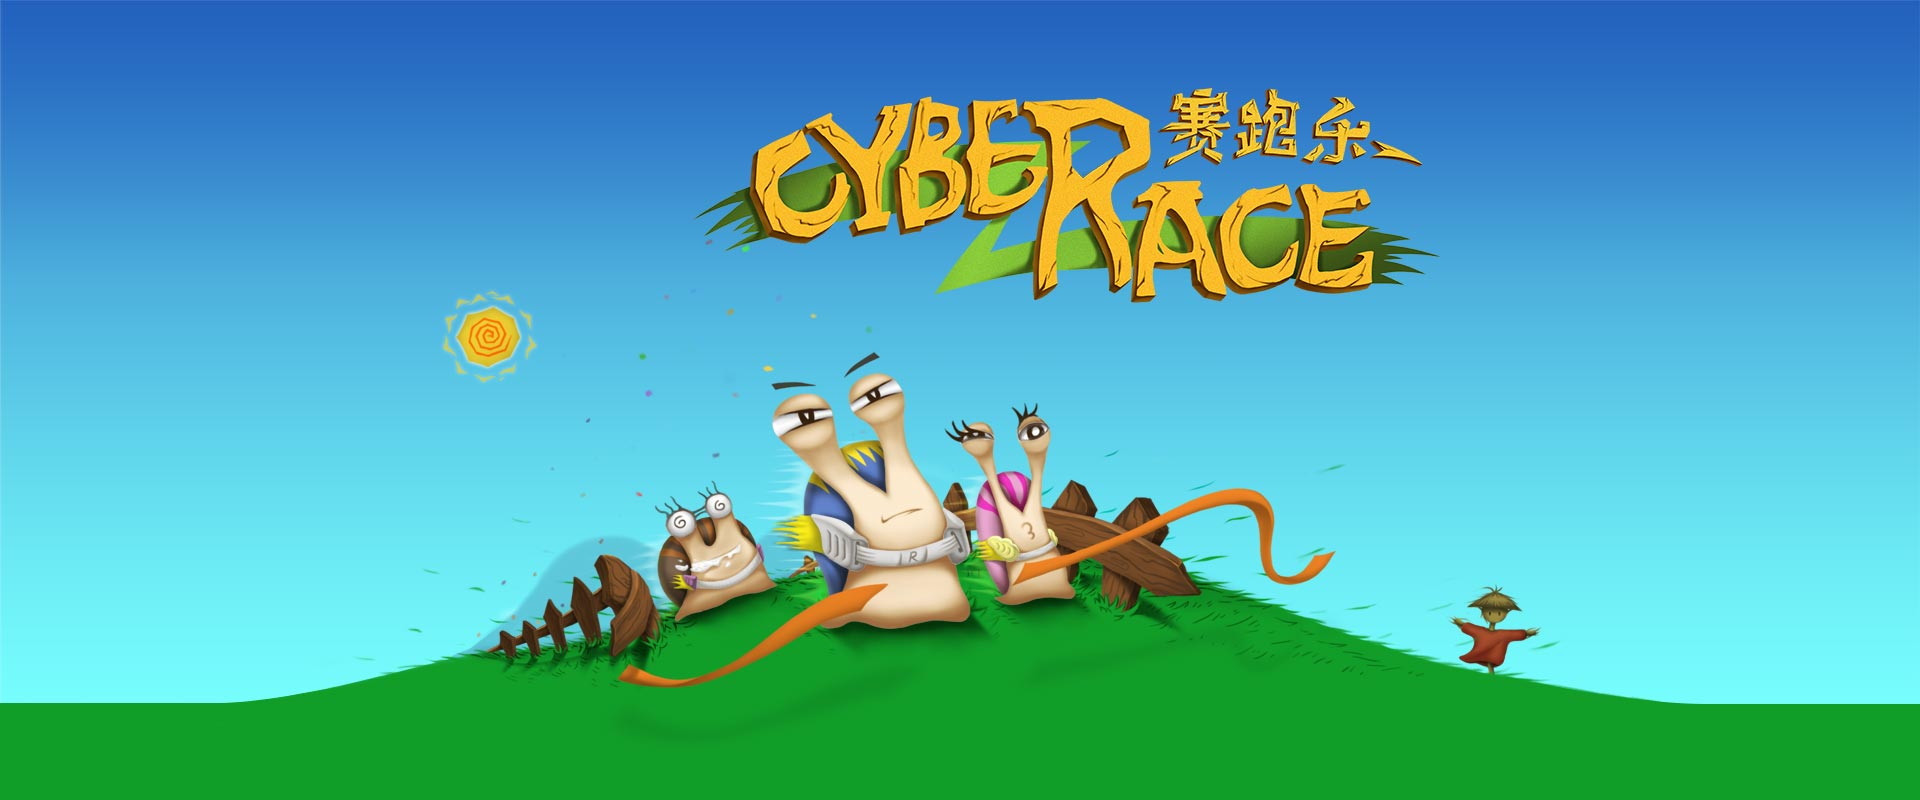
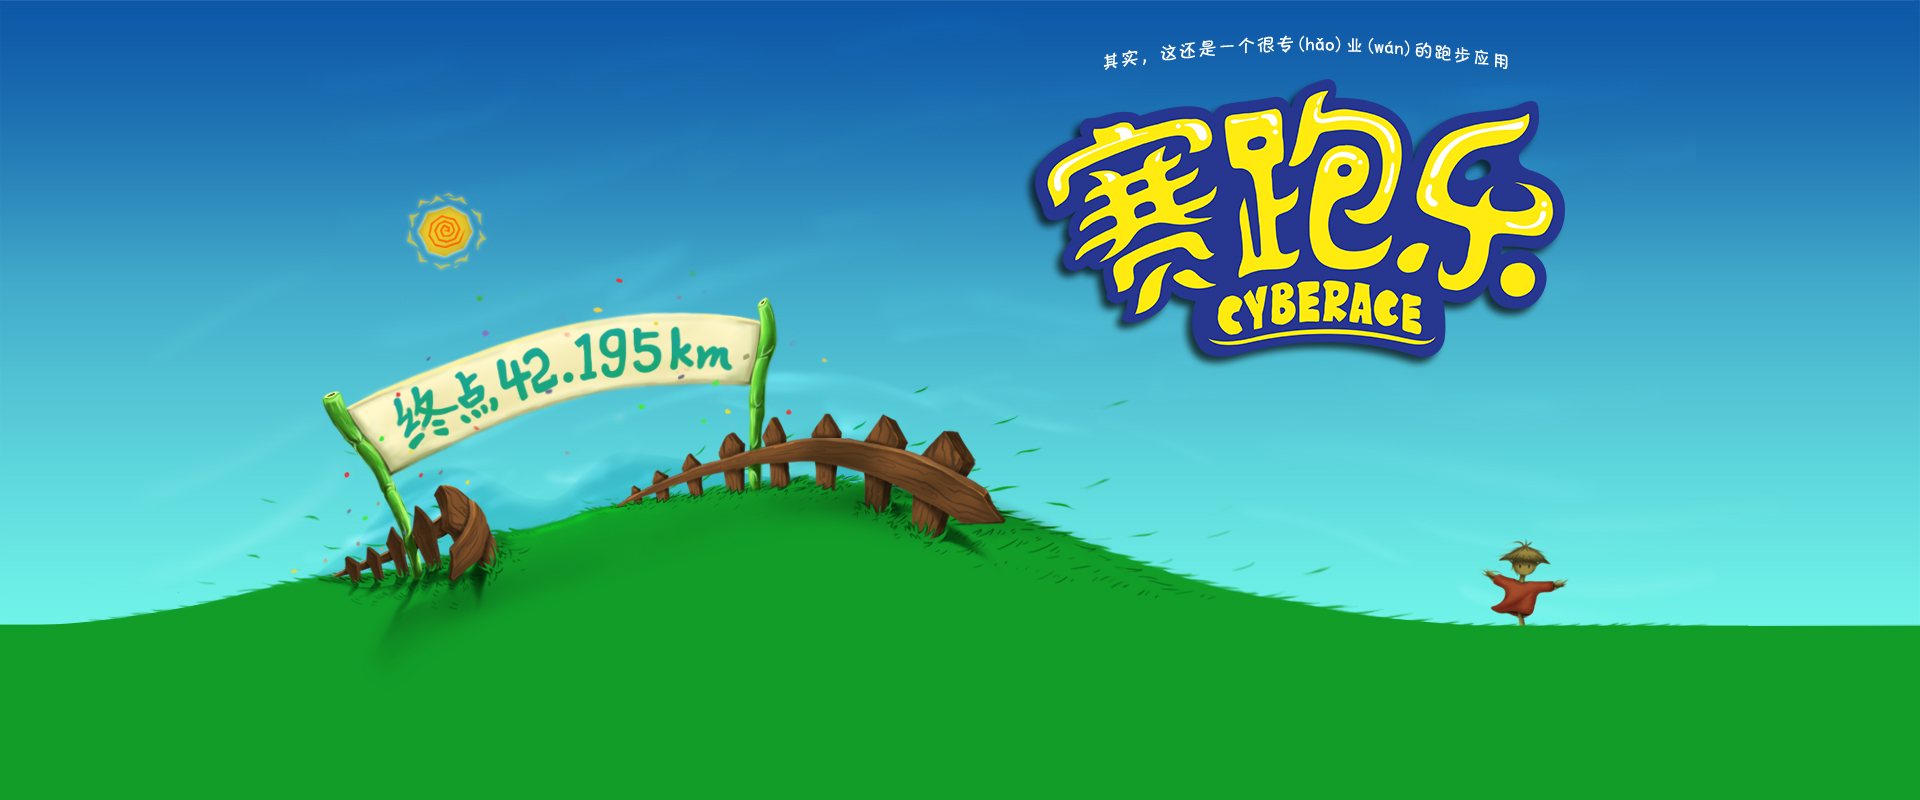
update default main page.

diff --git a/web.app/web/index.html b/web.app/web/index.html
@@ -1,20 +1,20 @@
-
 <!DOCTYPE html>
 <html>
 <head>
-    <meta http-equiv="Content-Type" content="text/html; charset=UTF-8" />
+    <meta http-equiv="Content-Type" content="text/html; charset=UTF-8"/>
     <title>赛跑乐-专业又有趣的跑步助手，训练计划，私人运动教练，健身减肥，健康生活，卡路里燃脂尽在 Cyberace 赛跑乐</title>
-    <base target="_blank" />
-    <meta name="keywords" content="跑步,运动,赛跑,健康,减肥,瘦身,训练,计划,卡路里,锻炼,教练,Cyberace,赛跑乐,专业,交友,约跑,比赛,race,running,run,Training,plan,compete,燃脂" />
-    <meta name="description" content="Cyberace赛跑乐 是一款集训练、竞技与社交、娱乐为一体的创新性跑步应用，以独有的先进定位导航算法为基础。" />
-    <link type="text/css" rel="stylesheet" href="css/style.css" />
+    <base target="_blank"/>
+    <meta name="keywords"
+          content="跑步,运动,赛跑,健康,减肥,瘦身,训练,计划,卡路里,锻炼,教练,Cyberace,赛跑乐,专业,交友,约跑,比赛,race,running,run,Training,plan,compete,燃脂"/>
+    <meta name="description" content="Cyberace赛跑乐 是一款集训练、竞技与社交、娱乐为一体的创新性跑步应用，以独有的先进定位导航算法为基础。"/>
+    <link type="text/css" rel="stylesheet" href="css/style.css"/>
     <link type="text/css" rel="stylesheet" href="css/magnific-popup.css"/>
     <script type="text/javascript" src="js/jquery-2.0.2.min.js"></script>
     <script type="text/javascript" src="js/jquery.imagebox.pack.js"></script>
     <script type="text/javascript">
-        $(document).ready(function() {
+        $(document).ready(function () {
 
-            $('#image-popup-vertical-fit').magnificPopup({
+            $('.image-popup-vertical-fit').magnificPopup({
                 type: 'image',
                 closeOnContentClick: true,
                 mainClass: 'mfp-img-mobile',
@@ -26,33 +26,104 @@
 
         });
     </script>
-
 </head>
 <body>
 <div class="window">
     <div class="body_wrap">
         <div class="banner">
             <h1>塞乐跑</h1>
+
             <div class="top_share">
                 <a href="http://weibo.com/cyberace5432studio" target="_blank" class="weibo_share">新浪微博</a>
                 <a href="http://t.qq.com/Cyberace5432" target="_blank" class="tencent_share">腾讯微博</a>
             </div>
-            <div style="padding-top: 200px">
-                <a id="image-popup-vertical-fit" title="" href="images/icons.png"><img alt="训练" src="images/main_training_btn_bg.png" width="50px" height="25px"/></a>
-            </div>
             <div class="app_download">
-                <a class="ios_link" href="https://itunes.apple.com/us/app/cyberace/id718299464?ls=1&mt=8" title="App store">App store</a>
+                <a class="ios_link" href="https://itunes.apple.com/cn/app/sai-pao-le-zhuan-ye-you-you/id718299464?mt=8"
+                   title="点我去app store"><img src="images/iphone_2dcode.png" /></a>
                 <a class="android_link" href="#" target="_self">Android下载</a>
+            </div>
+        </div>
+    </div>
+    <div class="functional_share">
+        <div class="functional_box">
+            <a class="image-popup-vertical-fit" title="独有的先进定位导航算法为基础，精确判定并记录你的跑步" href="images/sbpp.jpg">
+                <div class="f_box_button">
+                    <div class="f_box_title">随便跑跑</div>
+                </div>
+            </a>
+
+            <div class="f_box_content">
+                独有的先进定位导航算法为基础，精确判定并记录你的跑步
+            </div>
+        </div>
+        <div class="functional_box">
+            <a class="image-popup-vertical-fit" title="全新的训练系统，让您享受专业跑步教练1对1的指导和监督" href="images/xl.jpg">
+                <div class="f_box_button">
+                    <div class="f_box_title">训练</div>
+                </div>
+            </a>
+
+            <div class="f_box_content">
+                全新的训练系统，让您享受专业跑步教练1对1的指导和监督
+            </div>
+        </div>
+        <div class="functional_box">
+            <a class="image-popup-vertical-fit" title="独创性的将训练与社交相结合，让你的努力和坚持成为别人的好榜样，也找个好榜样来督促自己" href="images/hby.jpg">
+                <div class="f_box_button">
+                    <div class="f_box_title">好榜样</div>
+                </div>
+            </a>
+
+            <div class="f_box_content">
+                独创性的将训练与社交相结合，让你的努力和坚持成为别人的好榜样，也找个好榜样来督促自己
+            </div>
+        </div>
+    </div>
+    <div class="functional_share">
+        <div class="functional_box">
+            <a class="image-popup-vertical-fit" title="独有的自定义训练功能，打造属于你自己的训练计划，你分享的训练会被认可嘛" href="images/zdy.jpg">
+                <div class="f_box_button">
+                    <div class="f_box_title">自定义</div>
+                </div>
+            </a>
+
+            <div class="f_box_content">
+                独有的自定义训练功能，打造属于你自己的训练计划，你分享的训练会被认可嘛？
+            </div>
+        </div>
+        <div class="functional_box">
+            <a class="image-popup-vertical-fit" title="通过比赛来检验一下训练成功，秀出自己的实力" href="images/bs.jpg">
+                <div class="f_box_button">
+                    <div class="f_box_title">比赛</div>
+                </div>
+            </a>
+
+            <div class="f_box_content">
+                通过比赛来检验一下训练成功，秀出自己的实力
+            </div>
+        </div>
+        <div class="functional_box">
+                <div class="f_box_button">
+                    <div class="f_box_title">装备商城</div>
+                </div>
+            <div class="f_box_content">
+                [吐血开发中！]通过跑步，完成训练，挑战比赛来获得经验值和金币。
             </div>
         </div>
     </div>
     <div class="footer">
         <p class="copy_right">
-            Cyberace赛跑乐 的小伙伴们： <a href="http://pro.25pp.com/" title="PP助手" target="_blank">PP助手</a>&nbsp;&nbsp;<a href="http://sports.163.com" title="网易体育" target="_blank">网易体育</a>&nbsp;&nbsp;<a href="http://run.sports.163.com" title="网易跑步" target="_blank">网易跑步</a><br />
-            联系我们：contact@cyberace.cc<br />
-            Copyright <span class="copyright-icon">©</span> 2013 - Cyberace.cc - All Rights Reserved. 沪ICP备1303
+            Cyberace赛跑乐 的小伙伴们： <a href="http://pro.25pp.com/" title="PP助手" target="_blank">PP助手</a>&nbsp;&nbsp;<a
+                href="http://sports.163.com" title="网易体育" target="_blank">网易体育</a>&nbsp;&nbsp;<a
+                href="http://run.sports.163.com" title="网易跑步" target="_blank">网易跑步</a><br/>
+            联系我们：contact@cyberace.cc<br/>
+            Copyright <span class="copyright-icon">©</span> 2013 - Cyberace.cc - All Rights Reserved. 沪ICP备13034790号
         </p>
     </div>
 </div>
+<script type="text/javascript">
+    var _bdhmProtocol = (("https:" == document.location.protocol) ? " https://" : " http://");
+    document.write(unescape("%3Cscript src='" + _bdhmProtocol + "hm.baidu.com/h.js%3Fbbe7b591ef808d4688568abf08f69aa7' type='text/javascript'%3E%3C/script%3E"));
+</script>
 </body>
 </html> 

diff --git a/web.app/web/css/style.css b/web.app/web/css/style.css
@@ -60,7 +60,7 @@ a:hover{
     background:#119d28 url(../images/bg.jpg) no-repeat center top;
 }
 .banner{
-    height:800px;
+    height:650px;
     position:relative;
 }
 .banner h1{display:none;}
@@ -109,7 +109,7 @@ a:hover{
 .app_download{
     position:absolute;
     top: 375px;
-    right: 0px;
+    right: 60px;
 }
 .ios_link,.android_link{
     display:block;
@@ -122,10 +122,53 @@ a:hover{
 .ios_link:hover{
     background-position: 0 -52px;
 }
+
+.app_download a.ios_link img{
+    display: none;
+    margin-top: 5px;
+    margin-left: -210px;
+    position: absolute;
+}
+
+.app_download a.ios_link:hover img{
+    display: block;
+}
+
 .android_link{
     background-position: 0px -106px;
     margin-top: 10px;
 }
 .android_link:hover{
     background-position: 0px -158px;
+}
+
+
+.functional_share{
+    width:1200px;min-height: 280px;margin:0 auto;overflow:hidden;
+}
+
+.functional_box{
+    width: 400px; min-height: 280px; float: left; overflow:hidden;
+}
+
+.f_box_button{
+    background: url(../images/stone.png) no-repeat; margin-left: 40px; width: 264px; height: 126px;
+}
+
+.f_box_title{
+    color: #56431a; font-size: 25px; font-weight:bolder; text-align: center; height: 126px; line-height: 140px;
+}
+
+.functional_box a {
+    color: #56431a;
+}
+
+.functional_box a:hover{
+    color: #56431a;
+    text-decoration:none;
+}
+
+
+.f_box_content{
+    font-size: 14px; color: #ffffff; padding:20px 100px 0 60px; line-height: 25px;
 }
